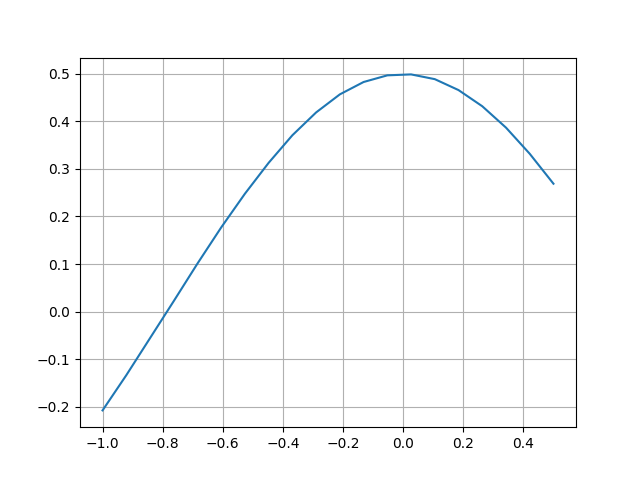
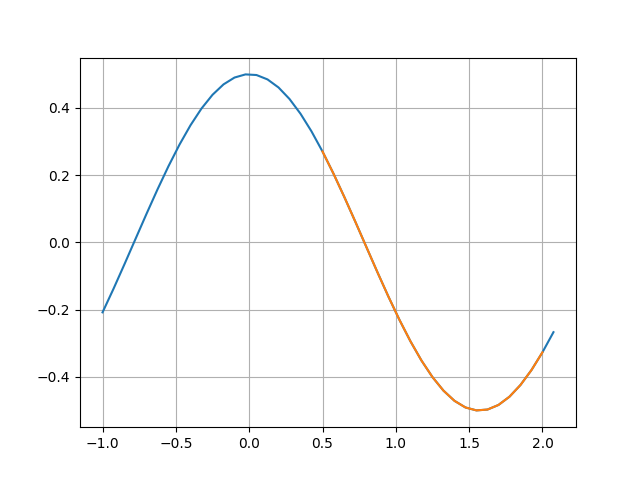
Lab2

diff --git a/lab2/lab2.py b/lab2/lab2.py
@@ -1,42 +1,66 @@
 import math
 from matplotlib import mlab, pyplot
 from Window import Window
+import random
 
-def function(a, b, N, size_window):
+def function(a, b, N):
     step = (b - a) / N
     input_vectors = [a]
-    input_matrix = []
     y_true = []
-    while input_vectors[-1] < b:
-        y_true.append(round(float((math.cos(input_vectors[-1])) ** 2 - 0.5), 3))
-        input_vectors.append(round(float(input_vectors[-1] + step), 3))
+    while input_vectors[-1] < (2 * b - a):
+        y_true.append((math.cos(input_vectors[-1]) ** 2 - 0.5))
+        input_vectors.append((input_vectors[-1] + step))
 
     y_true.append(round(float((math.cos(input_vectors[-1])) ** 2 - 0.5), 3))
-    for i in range(len(y_true) - size_window):
-        input_matrix.append(list((1, y_true[i], y_true[i + 1], y_true[i + 2], y_true[i + 3])))
+    return(input_vectors, y_true)
 
-    return(input_vectors, y_true, input_matrix)
+def find_rate_learning(y_true, size_window):
+    good_rate = 0
+    min_epochs = 3000
+    for i in range(100):
+        rate = random.random()
+        neuron = Window(1, y_true[:20], size_window)
+        error = 1
+        while error > (0.1 ** (10)):
+            neuron.during_epochs()
+            error = neuron.calculate_errors()
+
+        if neuron.epochs < min_epochs:
+            min_epochs = neuron.epochs
+            good_rate = rate
+
+    print(good_rate, min_epochs)
 
 def main():
     a = -1
     b = 0.5
-    N = 19
+    N = 20
     step = (b - a) / N
     size_window = 4
-    input_vectors, y_true, input_matrix = function(a, b, N, size_window - 1)
-    print(len(input_matrix))
-    neuron = Window(1, input_matrix)
-    neuron.during_epochs()
-    #x_probably = 0.5 + step
-    print(neuron.weight)
-    build_map(input_vectors, y_true)
+    input_vectors, y_true = function(a, b, N)
+    neuron = Window(1, y_true[:20], size_window)
+    error = 1
+    while error > (0.1 ** (10)):
+        neuron.during_epochs()
+        error = neuron.calculate_errors()
 
-def build_map(xlist, ylist):
+    x_probality = [input_vectors[20]]
+    while x_probality[-1] < (2 * b - a):
+       x_probality.append(round(float(x_probality[-1] + step), 3))
+
+    print('Epochs=', neuron.epochs)
+    print('W=', neuron.weight)
+    print("Error=", neuron.error_on_last_epochs)
+    y_probality = neuron.neuron_prediction(21)
+    build_map(input_vectors, y_true, x_probality, y_probality)
+    #find_rate_learning(y_true[20:], size_window)
+
+def build_map(xlist, ylist, x_probality, y_probality):
     pyplot.plot(xlist, ylist)
+    pyplot.plot(x_probality, y_probality)
     pyplot.grid(True)
     pyplot.savefig('123.png')
     pyplot.show()
-
 
 if __name__ == '__main__':
     main()

diff --git a/lab2/Window.py b/lab2/Window.py
@@ -1,24 +1,48 @@
 class Window:
 
-    def __init__(self, rate_learning, input_matrix):
-        self.y_true = []
+    def __init__(self, rate_learning, y_true, size_window):
+        self.y_true = y_true
         self.rate_learning = rate_learning
         self.epochs = 0
-        self.input_matrix = input_matrix
-        self.weight = [0, 0, 0, 0, 0]
+        self.weight = [0, 0, 0, 0]
         self.error_on_last_epochs = 0
+        self.size_window = size_window
+        self.vector_ans_on_epoch = []
 
     def during_epochs(self):
-        y_calculate_vector = []
-        for i in range(len(self.input_matrix)):
+        for i in range(self.size_window, len(self.y_true) - 1):
             y_calculate = 0
-            for j in range(len(self.input_matrix[i])):
-                y_calculate = self.weight[j] * self.input_matrix[i][j]
+            for j in range(self.size_window):
+                y_calculate += self.y_true[-1 * self.size_window + i + j]*self.weight[j]
 
-            y_calculate_vector.append(y_calculate)
-            for j in range(len(self.input_matrix[i])):
-                self.weight[j] += (y_calculate - self.input_matrix[i + 1][-1]) * self.rate_learning * self.input_matrix[i][j]
+            for j in range(self.size_window):
+                self.weight[j] += (self.y_true[i] - y_calculate) * self.rate_learning * self.y_true[-1 * self.size_window + i + j]
 
-    #def next_calculate(self, x_vector):
-        #return
+        self.epochs += 1
 
+    def neuron_prediction(self, number):
+        y_prediction = self.y_true[-1 * self.size_window:]
+        for i in range(number):
+            next_prediction = 0
+            for j in range(self.size_window):
+                next_prediction += y_prediction[-1 * self.size_window + j]*self.weight[j]
+
+            y_prediction.append(next_prediction)
+
+        return y_prediction[self.size_window:]
+
+    def calculate_errors(self):
+        self.error_on_last_epochs = 0
+        self.vector_ans_on_epoch = []
+        for i in range(self.size_window, len(self.y_true) - 1):
+            y_calculate = 0
+            for j in range(self.size_window):
+                y_calculate += self.y_true[-1 * self.size_window + i + j] * self.weight[j]
+
+            self.vector_ans_on_epoch.append(y_calculate)
+
+        for i in range(len(self.vector_ans_on_epoch)):
+            self.error_on_last_epochs += (self.vector_ans_on_epoch[i] - self.y_true[self.size_window + i]) ** 2
+
+        self.error_on_last_epochs = self.error_on_last_epochs ** (0.5)
+        return self.error_on_last_epochs
